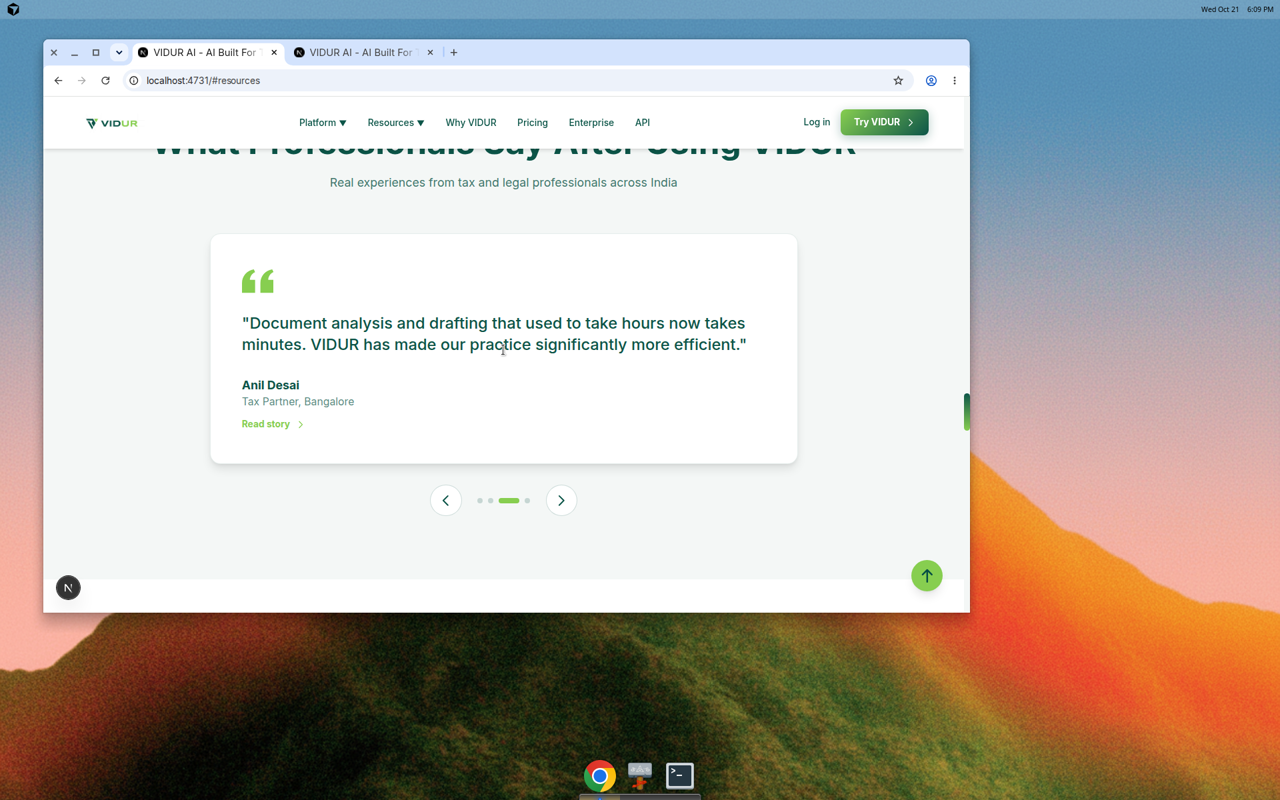
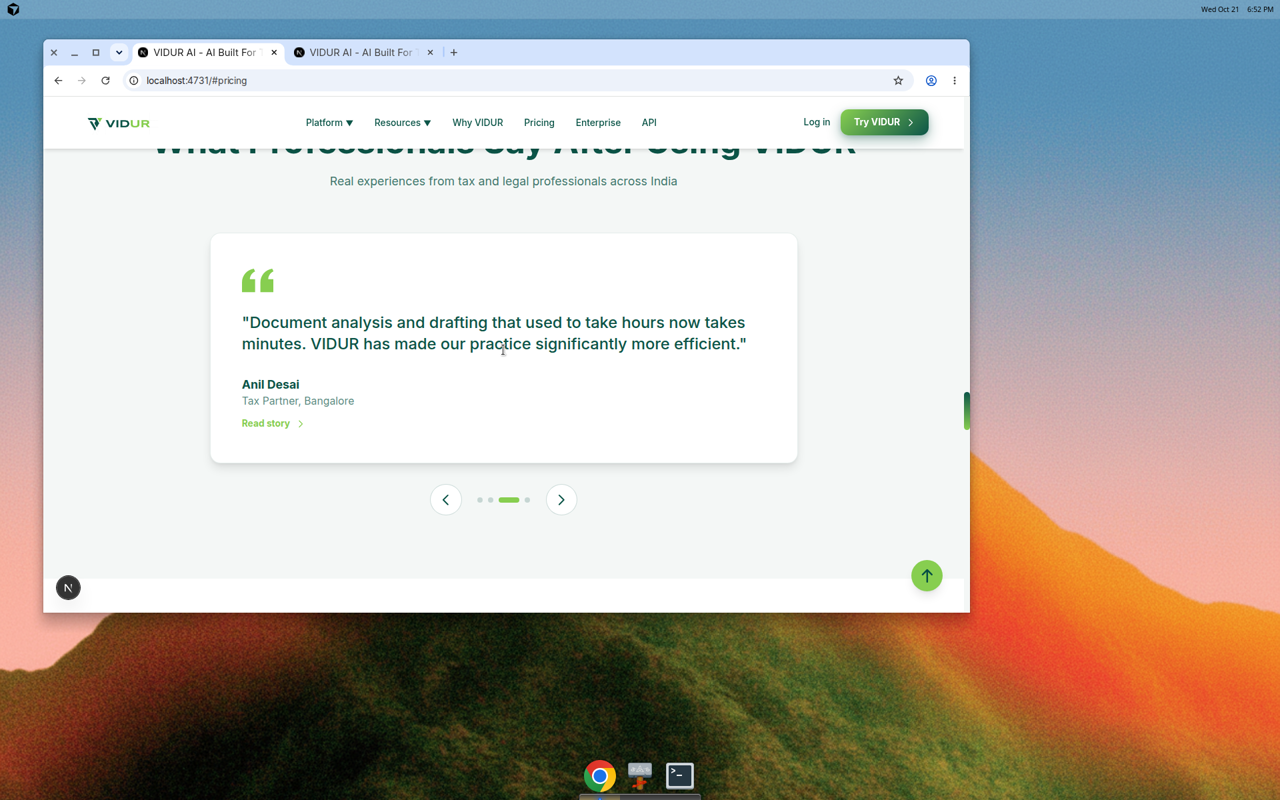
feat: redesign challenge-solutions section with premium styling
- Enhance 'THE EVERYDAY CHALLENGE' panel with clean white background
- Add premium dark green gradient to 'WHAT VIDUR CHANGES' panel
- Implement smooth selection animations with spring physics
- Add floating background patterns for depth
- Include counter indicator (1 of 5) for better UX
- Add animated checkmarks and icons with scale effects
- Improve mobile responsive design with better spacing
- Add backdrop blur and shadow effects for premium feel
- Enhance button interactions with tap and hover states
- Implement smooth fade transitions between solutions

diff --git a/components/ChallengesSolutions.tsx b/components/ChallengesSolutions.tsx
@@ -30,20 +30,20 @@ export default function ChallengesSolutions() {
   ];
 
   return (
-    <section className="py-24 bg-white">
-      <div className="max-w-[1360px] mx-auto px-6 lg:px-8">
+    <section className="py-16 md:py-24 bg-soft-neutral/30">
+      <div className="max-w-[1360px] mx-auto px-4 sm:px-6 lg:px-8">
         {/* Section Header */}
         <motion.div
           initial={{ opacity: 0, y: 20 }}
           whileInView={{ opacity: 1, y: 0 }}
           transition={{ duration: 0.6 }}
           viewport={{ once: true }}
-          className="text-center mb-16"
+          className="text-center mb-12 md:mb-16"
         >
-          <h2 className="text-4xl md:text-5xl lg:text-section-lg font-bold text-deep-green mb-4">
+          <h2 className="text-3xl md:text-4xl lg:text-5xl font-bold text-deep-green mb-3 md:mb-4">
             AI Should Help, Not Create Risk
           </h2>
-          <p className="text-lg text-deep-green/80 max-w-3xl mx-auto">
+          <p className="text-base md:text-lg text-deep-green/70 max-w-3xl mx-auto">
             See how VIDUR addresses the everyday challenges professionals face with generic AI tools
           </p>
         </motion.div>
@@ -51,8 +51,14 @@ export default function ChallengesSolutions() {
         {/* Desktop: Two-Column Comparison */}
         <div className="hidden lg:grid lg:grid-cols-2 gap-8">
           {/* Left Panel: Challenges */}
-          <div className="bg-soft-neutral rounded-2xl p-8">
-            <h3 className="text-2xl font-bold text-deep-green mb-6 pb-4 border-b-2 border-deep-green/10">
+          <motion.div 
+            initial={{ opacity: 0, x: -30 }}
+            whileInView={{ opacity: 1, x: 0 }}
+            transition={{ duration: 0.6 }}
+            viewport={{ once: true }}
+            className="bg-white rounded-3xl p-8 md:p-10 shadow-lg border border-deep-green/5"
+          >
+            <h3 className="text-xs md:text-sm font-bold text-deep-green/50 uppercase tracking-wider mb-6">
               THE EVERYDAY CHALLENGE
             </h3>
             <div className="space-y-3">
@@ -60,77 +66,124 @@ export default function ChallengesSolutions() {
                 <motion.button
                   key={index}
                   onClick={() => setSelectedIndex(index)}
-                  className={`w-full text-left p-4 rounded-lg transition-all duration-300 ${
+                  className={`w-full text-left p-5 rounded-2xl transition-all duration-300 ${
                     selectedIndex === index
-                      ? 'bg-white shadow-lg border-2 border-highlight-green/50'
-                      : 'bg-white/50 border-2 border-transparent hover:border-deep-green/20 hover:shadow-md'
+                      ? 'bg-gradient-to-r from-highlight-green/5 to-deep-green/5 shadow-md border-2 border-highlight-green/40'
+                      : 'bg-transparent border-2 border-transparent hover:bg-soft-neutral/30 hover:border-deep-green/10'
                   }`}
-                  whileHover={{ x: selectedIndex === index ? 0 : 4 }}
+                  whileHover={{ x: 4 }}
+                  whileTap={{ scale: 0.98 }}
                 >
-                  <div className="flex items-start gap-3">
-                    <div
-                      className={`flex-shrink-0 w-6 h-6 rounded-full mt-1 flex items-center justify-center ${
-                        selectedIndex === index ? 'bg-highlight-green' : 'bg-deep-green/20'
+                  <div className="flex items-start gap-4">
+                    <motion.div
+                      className={`flex-shrink-0 w-6 h-6 rounded-full mt-0.5 flex items-center justify-center transition-all duration-300 ${
+                        selectedIndex === index 
+                          ? 'bg-highlight-green shadow-lg shadow-highlight-green/30' 
+                          : 'bg-deep-green/10'
                       }`}
+                      animate={selectedIndex === index ? { scale: [1, 1.1, 1] } : {}}
+                      transition={{ duration: 0.5 }}
                     >
                       {selectedIndex === index && (
-                        <svg className="w-4 h-4 text-dark-accent" fill="currentColor" viewBox="0 0 20 20">
+                        <motion.svg 
+                          className="w-3.5 h-3.5 text-white" 
+                          fill="currentColor" 
+                          viewBox="0 0 20 20"
+                          initial={{ scale: 0 }}
+                          animate={{ scale: 1 }}
+                          transition={{ duration: 0.3 }}
+                        >
                           <path fillRule="evenodd" d="M16.707 5.293a1 1 0 010 1.414l-8 8a1 1 0 01-1.414 0l-4-4a1 1 0 011.414-1.414L8 12.586l7.293-7.293a1 1 0 011.414 0z" clipRule="evenodd" />
-                        </svg>
+                        </motion.svg>
                       )}
-                    </div>
-                    <p className={`font-medium ${selectedIndex === index ? 'text-deep-green' : 'text-deep-green/70'}`}>
+                    </motion.div>
+                    <p className={`text-sm md:text-base font-medium leading-relaxed ${selectedIndex === index ? 'text-deep-green' : 'text-deep-green/60'}`}>
                       {item.challenge}
                     </p>
                   </div>
                 </motion.button>
               ))}
             </div>
-          </div>
+          </motion.div>
 
           {/* Right Panel: Solutions */}
-          <div className="bg-gradient-to-br from-deep-green to-dark-accent rounded-2xl p-8 text-white">
-            <h3 className="text-2xl font-bold mb-6 pb-4 border-b-2 border-white/20">
-              WHAT VIDUR CHANGES
-            </h3>
-            <AnimatePresence mode="wait">
-              <motion.div
-                key={selectedIndex}
-                initial={{ opacity: 0, x: 20 }}
-                animate={{ opacity: 1, x: 0 }}
-                exit={{ opacity: 0, x: -20 }}
-                transition={{ duration: 0.3 }}
-                className="bg-white/10 backdrop-blur-sm rounded-xl p-6 border-2 border-highlight-green/30"
-              >
-                <div className="flex items-start gap-4">
-                  <div className="flex-shrink-0">
-                    <div className="w-12 h-12 bg-highlight-green rounded-full flex items-center justify-center">
-                      <svg className="w-6 h-6 text-dark-accent" fill="currentColor" viewBox="0 0 20 20">
-                        <path fillRule="evenodd" d="M10 18a8 8 0 100-16 8 8 0 000 16zm3.707-9.293a1 1 0 00-1.414-1.414L9 10.586 7.707 9.293a1 1 0 00-1.414 1.414l2 2a1 1 0 001.414 0l4-4z" clipRule="evenodd" />
-                      </svg>
-                    </div>
-                  </div>
-                  <div className="flex-1">
-                    <p className="text-lg font-medium leading-relaxed">
-                      {comparisons[selectedIndex].solution}
-                    </p>
-                  </div>
-                </div>
+          <motion.div 
+            initial={{ opacity: 0, x: 30 }}
+            whileInView={{ opacity: 1, x: 0 }}
+            transition={{ duration: 0.6 }}
+            viewport={{ once: true }}
+            className="relative bg-gradient-to-br from-deep-green via-deep-green to-dark-accent rounded-3xl p-8 md:p-10 text-white shadow-2xl overflow-hidden"
+          >
+            {/* Premium background pattern */}
+            <div className="absolute inset-0 opacity-10">
+              <div className="absolute top-10 right-10 w-40 h-40 bg-highlight-green rounded-full blur-3xl"></div>
+              <div className="absolute bottom-10 left-10 w-40 h-40 bg-white rounded-full blur-3xl"></div>
+            </div>
 
-                {/* Connecting line animation */}
+            <div className="relative z-10">
+              <h3 className="text-xs md:text-sm font-bold text-white/70 uppercase tracking-wider mb-8">
+                WHAT VIDUR CHANGES
+              </h3>
+              
+              <AnimatePresence mode="wait">
                 <motion.div
-                  initial={{ scaleX: 0 }}
-                  animate={{ scaleX: 1 }}
-                  transition={{ duration: 0.5, delay: 0.2 }}
-                  className="h-0.5 bg-highlight-green/50 mt-6 origin-left"
-                />
-              </motion.div>
-            </AnimatePresence>
-          </div>
+                  key={selectedIndex}
+                  initial={{ opacity: 0, y: 20 }}
+                  animate={{ opacity: 1, y: 0 }}
+                  exit={{ opacity: 0, y: -20 }}
+                  transition={{ duration: 0.4 }}
+                  className="relative"
+                >
+                  <div className="bg-white/10 backdrop-blur-md rounded-2xl p-6 md:p-8 border-2 border-white/20 shadow-xl">
+                    <div className="flex items-start gap-4 md:gap-5">
+                      <motion.div 
+                        className="flex-shrink-0"
+                        initial={{ scale: 0, rotate: -180 }}
+                        animate={{ scale: 1, rotate: 0 }}
+                        transition={{ 
+                          type: "spring",
+                          stiffness: 200,
+                          damping: 15
+                        }}
+                      >
+                        <div className="w-12 h-12 md:w-14 md:h-14 bg-highlight-green rounded-full flex items-center justify-center shadow-lg shadow-highlight-green/30">
+                          <svg className="w-6 h-6 md:w-7 md:h-7 text-deep-green" fill="currentColor" viewBox="0 0 20 20">
+                            <path fillRule="evenodd" d="M10 18a8 8 0 100-16 8 8 0 000 16zm3.707-9.293a1 1 0 00-1.414-1.414L9 10.586 7.707 9.293a1 1 0 00-1.414 1.414l2 2a1 1 0 001.414 0l4-4z" clipRule="evenodd" />
+                          </svg>
+                        </div>
+                      </motion.div>
+                      <div className="flex-1 pt-1">
+                        <p className="text-base md:text-lg font-medium leading-relaxed">
+                          {comparisons[selectedIndex].solution}
+                        </p>
+                      </div>
+                    </div>
+
+                    {/* Premium animated underline */}
+                    <motion.div
+                      initial={{ scaleX: 0, opacity: 0 }}
+                      animate={{ scaleX: 1, opacity: 1 }}
+                      transition={{ duration: 0.6, delay: 0.2 }}
+                      className="h-1 bg-gradient-to-r from-highlight-green via-highlight-green/50 to-transparent mt-6 rounded-full origin-left"
+                    />
+                  </div>
+
+                  {/* Floating indicator */}
+                  <motion.div
+                    initial={{ opacity: 0 }}
+                    animate={{ opacity: 1 }}
+                    className="absolute -bottom-3 right-6 bg-white/20 backdrop-blur-sm rounded-full px-4 py-1.5 text-xs font-medium"
+                  >
+                    {selectedIndex + 1} of {comparisons.length}
+                  </motion.div>
+                </motion.div>
+              </AnimatePresence>
+            </div>
+          </motion.div>
         </div>
 
         {/* Mobile: Stacked Pairs */}
-        <div className="lg:hidden space-y-6">
+        <div className="lg:hidden space-y-4 md:space-y-6">
           {comparisons.map((item, index) => (
             <motion.div
               key={index}
@@ -138,26 +191,36 @@ export default function ChallengesSolutions() {
               whileInView={{ opacity: 1, y: 0 }}
               transition={{ duration: 0.6 }}
               viewport={{ once: true }}
-              className="rounded-2xl overflow-hidden border-2 border-deep-green/10"
+              className="rounded-2xl md:rounded-3xl overflow-hidden shadow-lg border border-deep-green/10"
             >
               {/* Challenge */}
-              <div className="bg-soft-neutral p-6">
-                <p className="text-xs font-bold text-deep-green/60 uppercase tracking-wider mb-2">
+              <div className="bg-white p-5 md:p-6">
+                <p className="text-xs font-bold text-deep-green/50 uppercase tracking-wider mb-2">
                   Challenge
                 </p>
-                <p className="font-medium text-deep-green">{item.challenge}</p>
+                <div className="flex items-start gap-3">
+                  <div className="flex-shrink-0 w-5 h-5 rounded-full bg-deep-green/10 mt-0.5"></div>
+                  <p className="text-sm md:text-base font-medium text-deep-green">{item.challenge}</p>
+                </div>
               </div>
               
               {/* Solution */}
-              <div className="bg-gradient-to-br from-deep-green to-dark-accent p-6 text-white">
-                <p className="text-xs font-bold text-white/60 uppercase tracking-wider mb-2">
-                  VIDUR Solution
-                </p>
-                <div className="flex items-start gap-3">
-                  <svg className="w-5 h-5 text-highlight-green flex-shrink-0 mt-0.5" fill="currentColor" viewBox="0 0 20 20">
-                    <path fillRule="evenodd" d="M10 18a8 8 0 100-16 8 8 0 000 16zm3.707-9.293a1 1 0 00-1.414-1.414L9 10.586 7.707 9.293a1 1 0 00-1.414 1.414l2 2a1 1 0 001.414 0l4-4z" clipRule="evenodd" />
-                  </svg>
-                  <p className="font-medium">{item.solution}</p>
+              <div className="bg-gradient-to-br from-deep-green to-dark-accent p-5 md:p-6 text-white relative overflow-hidden">
+                <div className="absolute inset-0 opacity-10">
+                  <div className="absolute top-0 right-0 w-32 h-32 bg-highlight-green rounded-full blur-3xl"></div>
+                </div>
+                <div className="relative z-10">
+                  <p className="text-xs font-bold text-white/60 uppercase tracking-wider mb-3">
+                    VIDUR Solution
+                  </p>
+                  <div className="flex items-start gap-3 md:gap-4">
+                    <div className="flex-shrink-0 w-8 h-8 bg-highlight-green rounded-full flex items-center justify-center shadow-lg">
+                      <svg className="w-4 h-4 md:w-5 md:h-5 text-deep-green" fill="currentColor" viewBox="0 0 20 20">
+                        <path fillRule="evenodd" d="M10 18a8 8 0 100-16 8 8 0 000 16zm3.707-9.293a1 1 0 00-1.414-1.414L9 10.586 7.707 9.293a1 1 0 00-1.414 1.414l2 2a1 1 0 001.414 0l4-4z" clipRule="evenodd" />
+                      </svg>
+                    </div>
+                    <p className="text-sm md:text-base font-medium leading-relaxed">{item.solution}</p>
+                  </div>
                 </div>
               </div>
             </motion.div>
